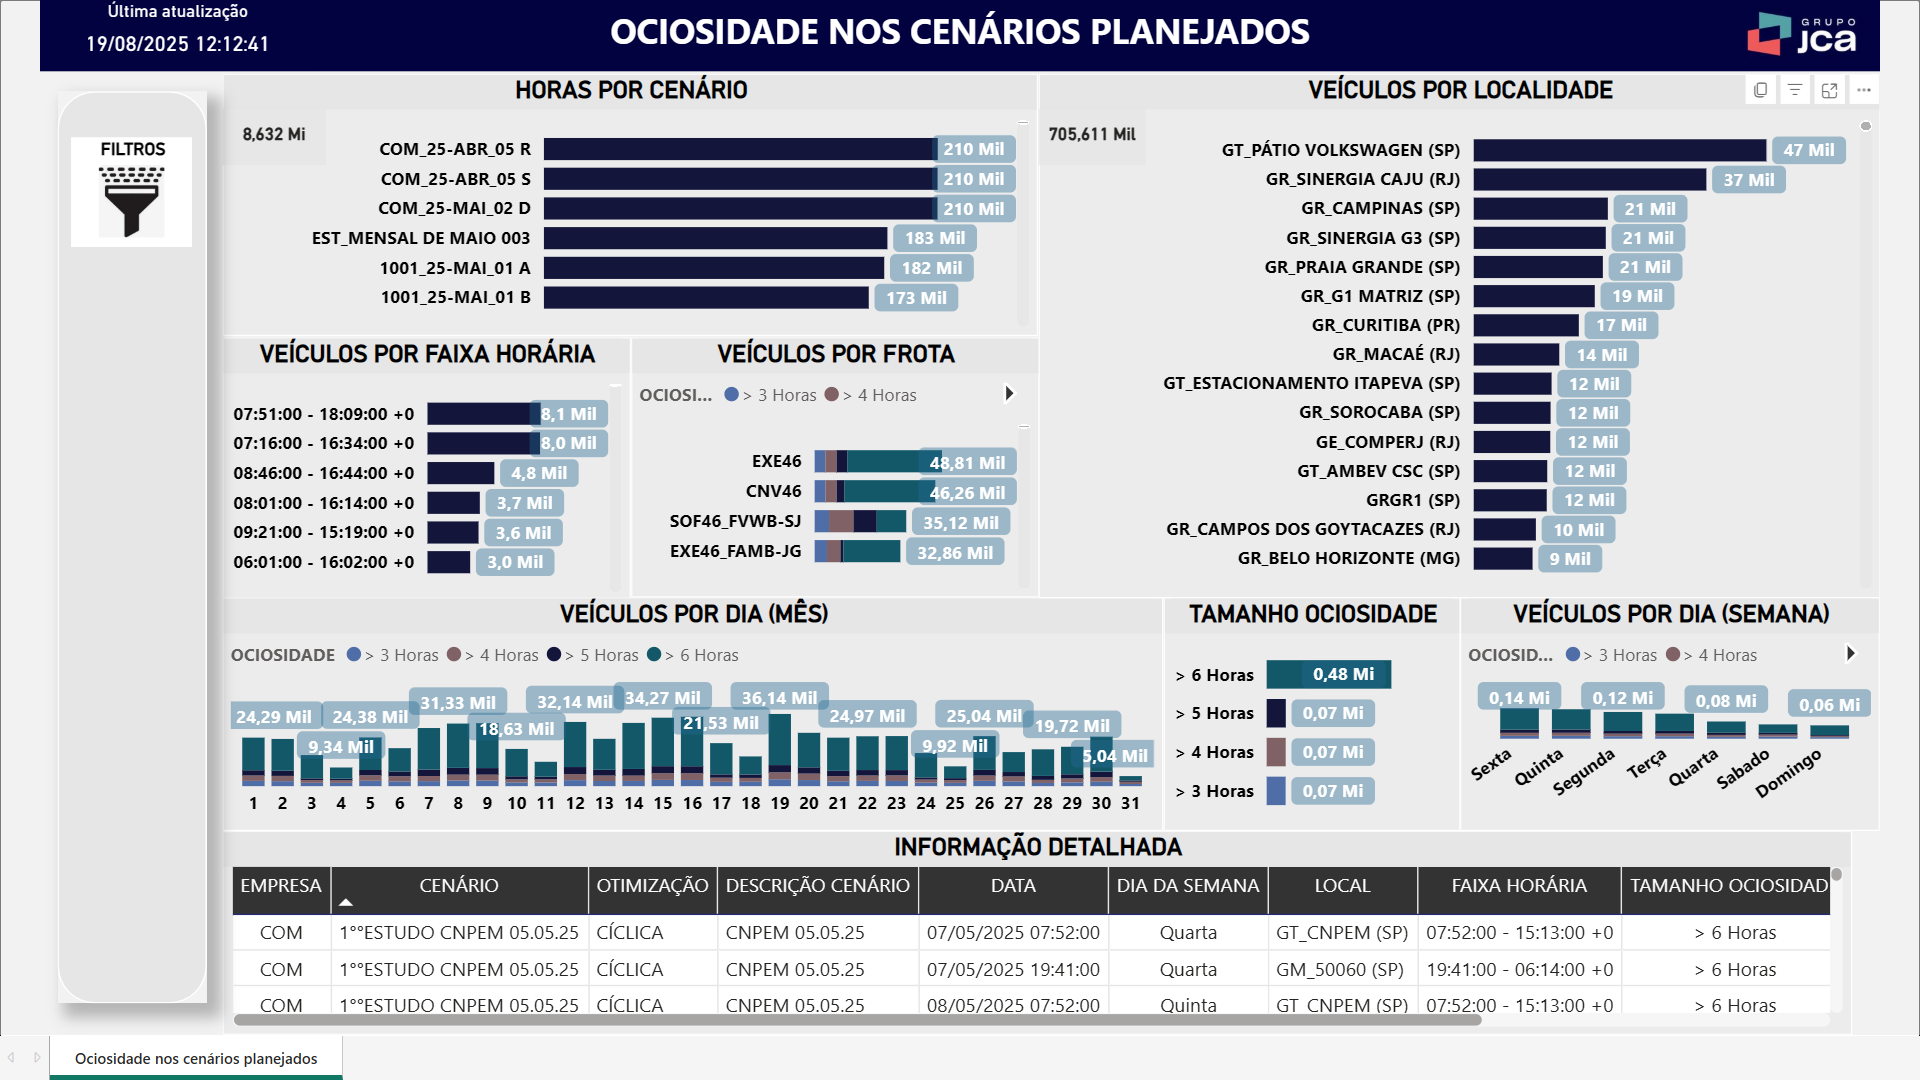
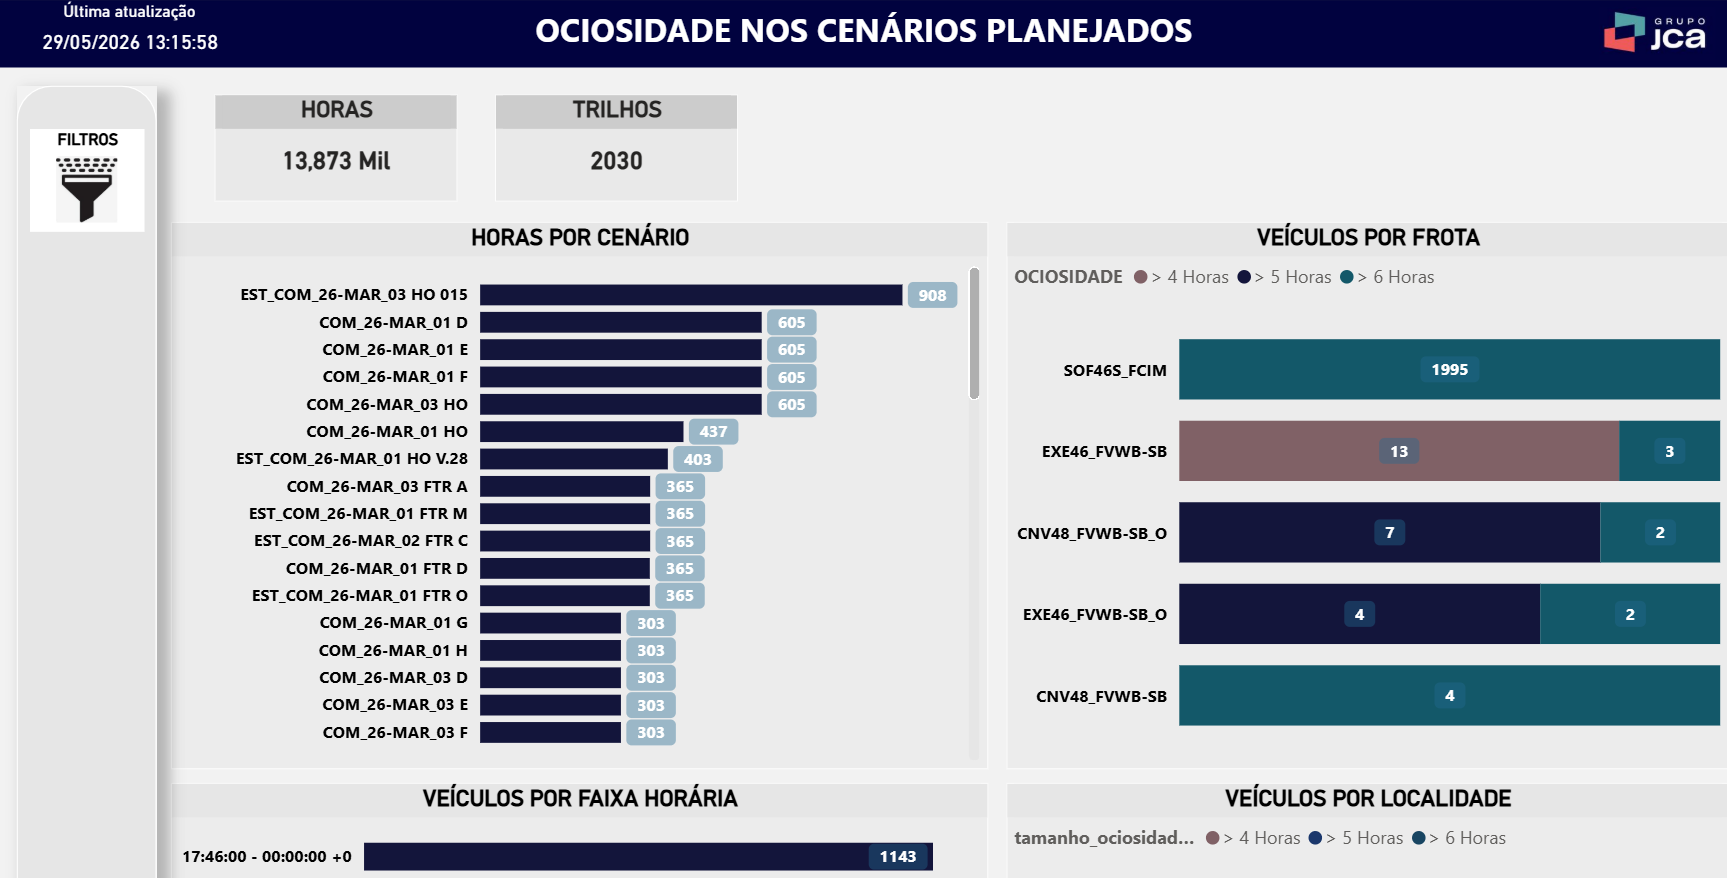
[NEW] - Add novos Dashboards

diff --git a/pages/operacao/planejamento_operacional/dashboards/index.html b/pages/operacao/planejamento_operacional/dashboards/index.html
@@ -91,7 +91,7 @@
                         href="https://app.powerbi.com/reportEmbed?reportId=c25c9477-e43f-48a0-90c4-4bc075a084bd&autoAuth=true&ctid=b9837abb-e070-4717-bfb6-3dea27151b64&navContentPaneEnabled=false&filterPaneEnabled=false"
                         target="_blank">
                         <img class="indicadores__template"
-                            src="../../../../assets/img/dashboards/veívulso_em_manutenção[app.powerbi.com].png" alt="">
+                            src="../../../../assets/img/dashboards/veículo_em_manutenção[app.powerbi.com].png" alt="">
                     </a>
                 </div>
                 <div class="indicadores__layout ">
@@ -282,6 +282,66 @@
                         target="_blank">
                         <img class="indicadores__template"
                             src="../../../../assets/img/dashboards/planejamento_operacional/horas_atividades_motoristas.png"
+                            alt="">
+                    </a>
+                </div>
+                <div class="indicadores__layout ">
+                    <h2 class="indicadores__titulo">Frota Cadastrada no OPTZ</h2>
+                    <a class="indicadores__link"
+                        href="https://app.powerbi.com/reportEmbed?reportId=3793bdec-c2fd-449f-8c03-bd5b997e1a55&autoAuth=true&ctid=b9837abb-e070-4717-bfb6-3dea27151b64"
+                        target="_blank">
+                        <img class="indicadores__template"
+                            src="../../../../assets/img/dashboards/planejamento_operacional/Frota_Cadastrada_OPTZ.png"
+                            alt="">
+                    </a>
+                </div>
+                <div class="indicadores__layout ">
+                    <h2 class="indicadores__titulo">Indisponibilidade Planejada de Frota</h2>
+                    <a class="indicadores__link"
+                        href="https://app.powerbi.com/reportEmbed?reportId=284865d2-e874-4bf2-ac53-1d8fa2c30243&autoAuth=true&ctid=b9837abb-e070-4717-bfb6-3dea27151b64"
+                        target="_blank">
+                        <img class="indicadores__template"
+                            src="../../../../assets/img/dashboards/planejamento_operacional/Indisponibilidade_de_Frota.png"
+                            alt="">
+                    </a>
+                </div>
+                <div class="indicadores__layout ">
+                    <h2 class="indicadores__titulo">Informação Pedágio</h2>
+                    <a class="indicadores__link"
+                        href="https://app.powerbi.com/reportEmbed?reportId=172c64b4-2276-447f-972b-27de89327309&autoAuth=true&ctid=b9837abb-e070-4717-bfb6-3dea27151b64"
+                        target="_blank">
+                        <img class="indicadores__template"
+                            src="../../../../assets/img/dashboards/planejamento_operacional/Informacao_Pedagio.png"
+                            alt="">
+                    </a>
+                </div>
+                <div class="indicadores__layout ">
+                    <h2 class="indicadores__titulo">Km por Ano de Frota</h2>
+                    <a class="indicadores__link"
+                        href="https://app.powerbi.com/reportEmbed?reportId=0b14557e-93a2-4f78-b22a-aefe74fb3dab&autoAuth=true&ctid=b9837abb-e070-4717-bfb6-3dea27151b64"
+                        target="_blank">
+                        <img class="indicadores__template"
+                            src="../../../../assets/img/dashboards/planejamento_operacional/KM_por_ano_frota.png"
+                            alt="">
+                    </a>
+                </div>
+                <div class="indicadores__layout ">
+                    <h2 class="indicadores__titulo">Orçamento Frota</h2>
+                    <a class="indicadores__link"
+                        href="https://app.powerbi.com/reportEmbed?reportId=c2e12242-17d7-4934-8997-652f978433b4&autoAuth=true&ctid=b9837abb-e070-4717-bfb6-3dea27151b64"
+                        target="_blank">
+                        <img class="indicadores__template"
+                            src="../../../../assets/img/dashboards/planejamento_operacional/Orçamento_Frota.png"
+                            alt="">
+                    </a>
+                </div>
+                <div class="indicadores__layout ">
+                    <h2 class="indicadores__titulo">Utilização de Frota - OPTZ</h2>
+                    <a class="indicadores__link"
+                        href="https://app.powerbi.com/reportEmbed?reportId=eac9f555-e74c-4f82-b594-df1cce5b89fa&autoAuth=true&ctid=b9837abb-e070-4717-bfb6-3dea27151b64"
+                        target="_blank">
+                        <img class="indicadores__template"
+                            src="../../../../assets/img/dashboards/planejamento_operacional/Utilizacao_frota_optz.png"
                             alt="">
                     </a>
                 </div>
